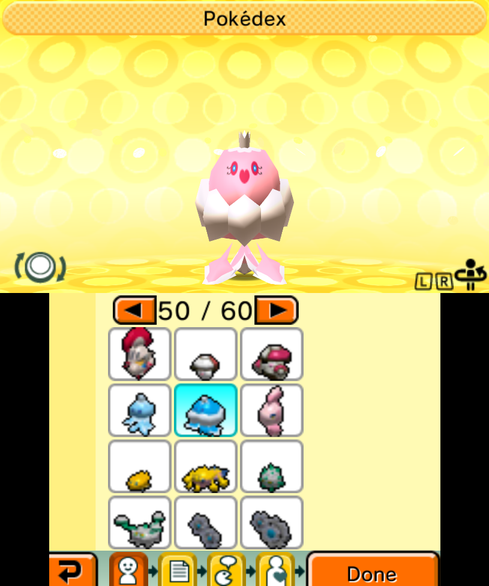
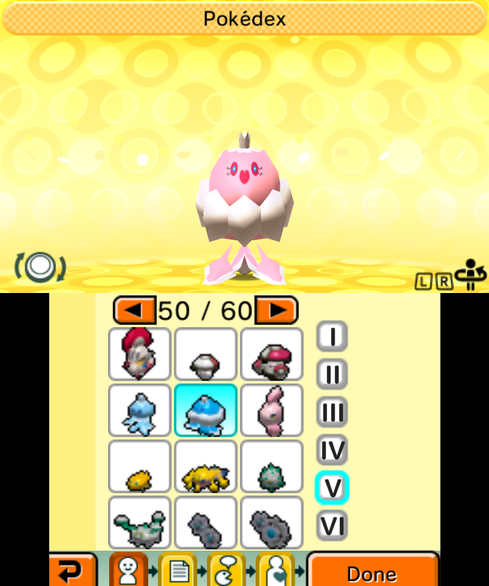
Pokédex tabs labelled I-VI; one Pokédex screenshot in the README
- Jump tabs show Roman numerals: I-V for the generations, VI for the
  alternate forms
- README: a single Pokédex screenshot (numeral tabs + female Jellicent)
  instead of two shots of the same screen

diff --git a/scripts/build_editor.py b/scripts/build_editor.py
@@ -11,7 +11,7 @@ import os
 import struct
 import sys
 
-from PIL import Image
+from PIL import Image, ImageDraw, ImageFont
 
 sys.path.insert(0, os.path.dirname(os.path.abspath(__file__)))
 from paths import DATA  # noqa: E402
@@ -32,9 +32,12 @@ HIDE = {
     "blyt/EditorCommon.bclyt": ["N_BtnTabs", "N_Camera"],      # face/hair/eyes/... tabs, photo button
     "blyt/EditHair.bclyt": ["N_BtnChanges", "B_Color_06", "B_Color_07"],  # hair flip, 2 spare colours
 }
-# The other 6 hair-colour buttons become jump tabs (codepatch.py: Gen I-V, then the alternate forms),
-# each showing a Pokémon: (tab, Rumble icon).
-TABS = [(0, "N001_u_00"), (1, "N152_u_00"), (2, "N252_u_00"), (3, "N387_u_00"), (4, "N495_u_00"), (5, "N201_u_27")]
+# The other 6 hair-colour buttons become jump tabs (codepatch.py: Gen I-V, then VI = the alternate
+# forms), labelled with Roman numerals: (tab, label).
+TABS = [(0, "I"), (1, "II"), (2, "III"), (3, "IV"), (4, "V"), (5, "VI")]
+TAB_TEX = (64, 56)              # label texture (logical size, stored 64x64), same 8:7 shape as TAB_ICON
+TAB_INK = (43, 37, 32, 255)     # the dark ink of the game's page counter
+TAB_FONTS = ["ARLRDBD.TTF", "seguibl.ttf", "arialbd.ttf"]   # Arial Rounded MT Bold first, as on the UI
 TAB_X, TAB_TOP, TAB_STEP = 72.0, -8.0, 31.0   # column position (layout units, y up) and spacing
 TAB_DISC, TAB_HIT, TAB_ICON = (32.0, 32.0), (30.0, 30.0), (28.0, 24.5)
 HIDE_CITYHALL = {
@@ -166,22 +169,34 @@ def add_tabs(blyt):
     return _join(header, out)
 
 
-def tab_icon(name):
-    """A tab's Pokémon, scaled up to fill the tile (the grid keeps sprites at native size)."""
-    small = icon_for({"icon": name})
-    small = small.crop(small.getbbox())
-    s = min((ICON_W - 2) / small.width, (ICON_H - 2) / small.height)
-    small = small.resize((round(small.width * s), round(small.height * s)), Image.LANCZOS)
-    canvas = Image.new("RGBA", (ICON_W, ICON_H), (0, 0, 0, 0))
-    canvas.alpha_composite(small, ((ICON_W - small.width) // 2, (ICON_H - small.height) // 2))
-    return canvas
+def tab_font(size):
+    for name in TAB_FONTS:
+        path = os.path.join(os.environ.get("WINDIR", r"C:\Windows"), "Fonts", name)
+        if os.path.exists(path):
+            return ImageFont.truetype(path, size)
+    return ImageFont.load_default(size)
+
+
+def tab_label(text):
+    """A tab's Roman numeral, centred; one font size for all tabs, the largest that fits the widest."""
+    w, h = TAB_TEX
+    size = 48
+    while size > 8:
+        font = tab_font(size)
+        boxes = [font.getbbox(t) for _, t in TABS]
+        if max(b[2] - b[0] for b in boxes) <= w - 10 and max(b[3] - b[1] for b in boxes) <= h - 14:
+            break
+        size -= 1
+    img = Image.new("RGBA", (w, h), (0, 0, 0, 0))
+    l, t, r, b = font.getbbox(text)
+    ImageDraw.Draw(img).text(((w - (r - l)) / 2 - l, (h - (b - t)) / 2 - t), text, font=font, fill=TAB_INK)
+    return img
 
 
 def tab_textures():
     files = {}
-    for i, icon in TABS:
-        img = tab_icon(icon)
-        files["timg/PkTab%d.bclim" % i] = bclim.write_bclim(bclim.encode(img, "rgba5551"), ICON_W, ICON_H, "rgba5551")
+    for i, text in TABS:
+        files["timg/PkTab%d.bclim" % i] = bclim.write_bclim(bclim.encode(tab_label(text), "rgba4"), *TAB_TEX, "rgba4")
     return files
 
 

diff --git a/README.md b/README.md
@@ -27,7 +27,7 @@
 |  | Tomodachi Life | **Pokédachi Life** |
 |---|---|---|
 | 🏝 Islanders | Miis | **Rumble Blast Pokémon** with Tomodachi's own animations |
-| 🎨 Making a resident | Mii Maker (face, hair, eyes…) | **A Pokédex**: 717 entries over 60 pages, with jump tabs for Gen I–V and the forms |
+| 🎨 Making a resident | Mii Maker (face, hair, eyes…) | **A Pokédex**: 717 entries over 60 pages, with tabs I–V for each generation and VI for the forms |
 | ♀♂ Gender | Picks clothes | Still asked, and **96 species switch to their female model** (pink Jellicent, heart-tailed Pikachu…) |
 | 🗣 Name, voice, personality | ✔ | ✔ unchanged |
 | ✋ Grabbing | Pinch the top of the head, slide up | Same gesture: every Pokémon is scaled so its head is where the game expects a Mii's |
@@ -36,9 +36,8 @@
 
 <table>
   <tr>
-    <td align="center"><img src="docs/img/pokedex.png" width="260"><br><sub><b>The Pokédex</b> replaces the Mii Maker.<br>Here a girl picks Jellicent and gets the pink one.</sub></td>
-    <td align="center"><img src="docs/img/home.png" width="300"><br><sub><b>Moved in.</b> The game treats it like any other Mii.</sub><br><br><img src="docs/img/tabs.png" width="300"><br><sub><b>Jump tabs.</b> Tap a starter to leap to its generation.<br>The lit tab follows whatever page you're on.</sub></td>
-    <td align="center"><img src="docs/img/grab.png" width="260"><br><sub><b>Grab it by the head</b> and it dangles, just like a Mii.</sub><br><br><img src="docs/img/news.png" width="260"><br><sub><b>Mii News</b>, Pokémon edition.</sub></td>
+    <td align="center"><img src="docs/img/pokedex.png" width="300"><br><sub><b>The Pokédex</b> replaces the Mii Maker. Tabs <b>I–V</b> jump<br>to each generation, <b>VI</b> to the alternate forms.<br>Here a girl picks Jellicent and gets the pink one.</sub><br><br><img src="docs/img/news.png" width="300"><br><sub><b>Mii News</b>, Pokémon edition.</sub></td>
+    <td align="center"><img src="docs/img/home.png" width="300"><br><sub><b>Moved in.</b> The game treats it like any other Mii.</sub><br><br><img src="docs/img/grab.png" width="300"><br><sub><b>Grab it by the head</b> and it dangles, just like a Mii.</sub></td>
   </tr>
 </table>
 
@@ -56,8 +55,8 @@ flowchart TD
 
 > [!TIP]
 > Already have islanders? **Town Hall → Edit Mii → Pokédex** lets you pick a new Pokémon for any of them.
-> The tabs beside the grid jump straight to a generation: Bulbasaur for Gen I, Chikorita for II, Treecko
-> for III, Turtwig for IV, Snivy for V and Unown for the alternate forms.
+> The tabs beside the grid jump straight to a generation: **I** to **V** for Gen I–V, **VI** for the
+> alternate forms. The lit tab always shows which section you're in.
 
 ---
 
@@ -272,7 +271,7 @@ Pokémon reuse the Mii body material so room lighting looks right.
 The Mii Maker's hair page became the Pokédex. A small code patch (`code.ips`) grows it from 132 hair
 icons on 11 pages to 720 icons on 60 pages, stores your pick in the hair style + hair colour, and makes
 the body loader open `body_pk<slot>[F]` instead of an outfit. The hair-colour buttons next to the grid
-became the jump tabs: each shows a starter (Unown for the forms), turns to its section's first page,
+became the jump tabs: Roman numerals I–V for the generations and VI for the forms. Each turns to its section's first page,
 and the lit tab follows the page you're on, arrows included. The new code lives in unused space at the
 end of the game's code, and every patched spot is checked against the expected original instructions
 before it's written.

diff --git a/MODLOG.md b/MODLOG.md
@@ -118,7 +118,8 @@ code mod (exefs `code.ips`) later for per-Mii species and the Pokédex creation 
 - Jump tabs: the hair page's 8 colour buttons (+0x30c + i×0x5c, selected index +0xa3c). Buttons 0–5
   became Gen I–V / Forms tabs (pages 1, 13, 21, 33, 42, 54); 6–7 hidden. Layout (`build_editor.add_tabs`):
   swatch material konst0 → white, swatch 32 px, plus a child pic pane `I_Color_0i` (I_Part_00's pane and
-  material as templates) showing `PkTab<i>.bclim` (txl1 + mat1 appended). The swatch material itself
+  material as templates) showing `PkTab<i>.bclim`, a Roman numeral I–VI (Arial Rounded MT Bold,
+  RGBA4 for soft edges; txl1 + mat1 appended). The swatch material itself
   can't show an icon: its texture is an A4 mask tinted by konst0, and its Select/Decide animations
   drive texMap 1 (ring) + konst1, so it's kept for the highlight. Code: colour tap `0x32d1f8` →
   cave `tab_tap(i, this)` (page, icons, counter text, picked-icon highlight) then the game's colour
@@ -201,7 +202,8 @@ code mod (exefs `code.ips`) later for per-Mii species and the Pokédex creation 
   auto-repeat and skip pages, so check each sheet's page label; `citra.py launch` no longer steals focus.)
   Installed into my own Citra (`build_mod.sh --real` now backs the island up by itself first).
 
-- 2026-10-09: **Gen I–V + Forms jump tabs** beside the Pokédex grid (starter icons; Unown for forms).
+- 2026-10-09: **Gen I–V + Forms jump tabs** beside the Pokédex grid, labelled I–VI (VI = forms; first
+  tried starter icons).
   Verified in the test Citra: each tab opens its page, the arrows move the lit tab, a pick made after a
   tab jump (Serperior) saves and reopens on page 42 with Gen V lit. README: the clipped nap shot is
   replaced by the tabs.
